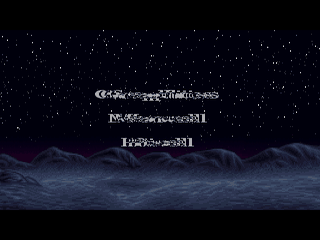
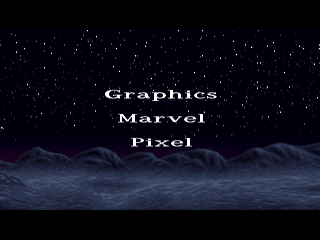
COMPATIBILITY: Second Reality plays, its credits drawn once, on past the spaceship

diff --git a/docs/COMPATIBILITY.md b/docs/COMPATIBILITY.md
@@ -184,7 +184,7 @@ fingerprint of its screen with the recorded one, so a regression in it cannot la
 | <img src="compat/intro-qblove.png" width="160" alt=""> | 🏅 qblove (1K) | 🟢 Renders | checked against the author's screenshot | 2026-11-05 |
 | <img src="compat/golden-revitro.png" width="160" alt=""> | 🏅 revitro | 🟢 Renders |  | 2026-11-05 |
 | <img src="compat/golden-rv256.png" width="160" alt=""> | 🏅 rv256 | 🟢 Renders |  | 2026-11-05 |
-| <img src="compat/dos-2ndreal-title.png" width="160" alt=""> <img src="compat/dos-2ndreal-game.png" width="160" alt=""> | Second Reality (Future Crew) | 🟢 Renders | SoundBlaster Pro at its set-up (its default, the Gravis Ultrasound, is not emulated), then the demo with its music: its opening and the starfield over the mountains; the credits are drawn doubled | 2026-11-06 |
+| <img src="compat/dos-2ndreal-title.png" width="160" alt=""> <img src="compat/dos-2ndreal-game.png" width="160" alt=""> | Second Reality (Future Crew) | 🟢 Plays | SoundBlaster Pro at its set-up (its default, the Gravis Ultrasound, is not emulated), then the demo with its music: its opening, the credits over the mountains, the spaceship, the checkerboard, the polyhedra and the plants (checked to 260 s) | 2026-11-06 |
 | <img src="compat/golden-starport.png" width="160" alt=""> | 🏅 StarPort BBS 2 | 🟢 Renders |  | 2026-11-05 |
 | <img src="compat/dos-stash-title.png" width="160" alt=""> | Stash (The Black Lotus, 64K) | 🟢 Plays | the progress bar while it precomputes (3.3 billion instructions), then the intro to its end text | 2026-11-05 |
 | <img src="compat/golden-symetrie.png" width="160" alt=""> | 🏅 symetrie | 🟢 Renders |  | 2026-11-05 |

diff --git a/CHANGELOG.md b/CHANGELOG.md
@@ -23,7 +23,9 @@ change is in the [commit history](https://github.com/jfrelat-lab/mirage-x86/comm
   there. The disk now reports 16 heads and 63 sectors, as QEMU's and a real one do. Then Windows'
   microcode updater wrote the update trigger register, which was a fault; the write is now taken.
 - **Second Reality plays** (Future Crew, 1993): choose the SoundBlaster Pro at its set-up and the
-  demo runs with its music. Its loader is a scheduler driven by the single-step trap, and an `INT n` was wrongly followed by a
+  demo runs with its music. Its credits are drawn once and it runs on past the spaceship: PIT
+  counter 0 now counts by two in mode 3, as an 8254 does (the demo measured its frame at half its
+  length and starved its own drawing), and a part ending frees the memory it allocated. Its loader is a scheduler driven by the single-step trap, and an `INT n` was wrongly followed by a
   trap (DOSBox-X counts 9 traps on the new probe `tools/inttrap.asm`, MIRAGE counted 11); it also
   needed INT 21h AH=55h, a child PSP, and a child that ends without ending its parent.
 - **386BSD's console shows whole**, to `login:`. Its kernel zeroes the BIOS data area, where MIRAGE
